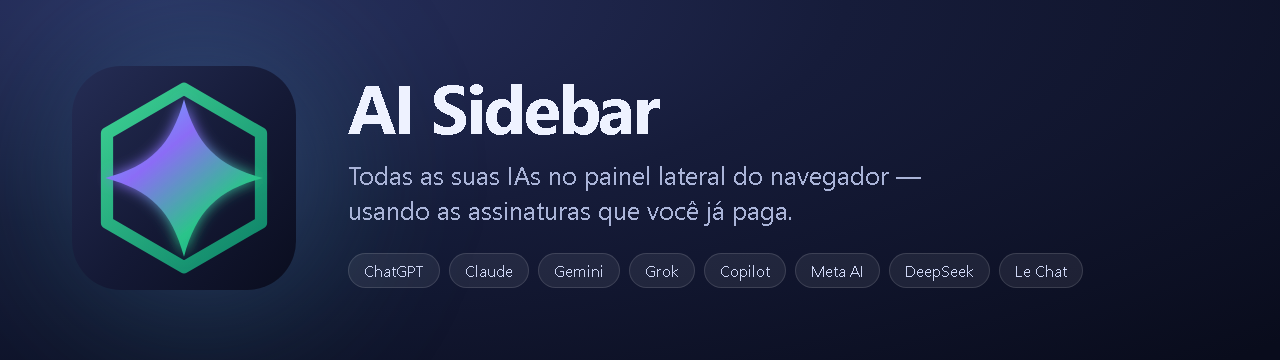
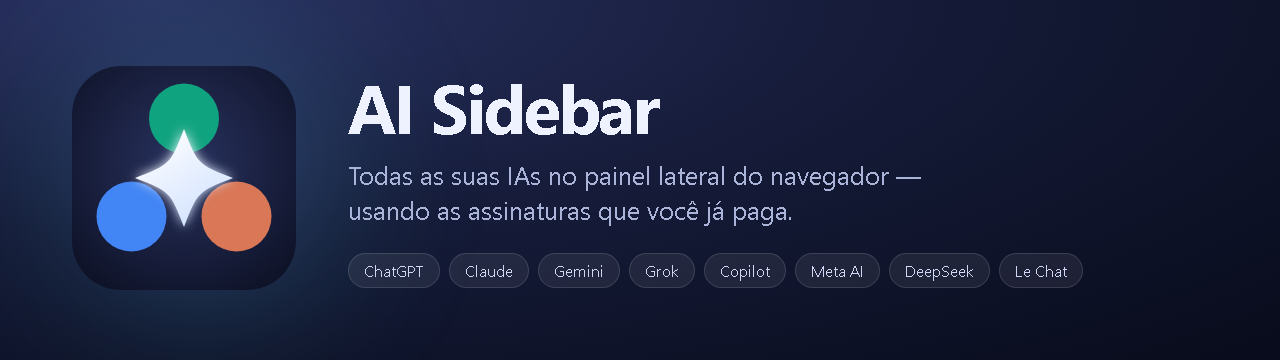
Ícone novo: três círculos de marca em torno de um núcleo
Substitui o hexágono anterior por uma composição que expressa a proposta do
projeto — vários modelos convergindo para um ponto só.

Três círculos grandes (verde, azul e laranja) em triângulo ao redor de uma
faísca branca central, sobre fundo radial escuro.

O conceito original usava seis círculos menores, que viravam uma mancha em
16 px: no canvas de 128 a escala cai 8x e um raio de 11 vira 1,4 px. Com três
círculos de raio 20 a forma sobrevive no tamanho real da barra.

Banner regenerado a partir do mesmo icon.svg para manter a identidade coerente.

Changed region(s): [[0.0312, 0.1833, 0.2188, 0.7639]]

diff --git a/docs/banner.html b/docs/banner.html
@@ -18,31 +18,24 @@ p{margin:16px 0 0;font-size:25px;line-height:1.4;color:#aab4d8;max-width:660px}
 <div class="wrap">
   <div class="glow"></div>
   <div class="icon">
-    <svg width="224" height="224" viewBox="0 0 128 128" xmlns="http://www.w3.org/2000/svg">
-      <defs>
-        <linearGradient id="bg" x1="0" y1="0" x2="1" y2="1">
-          <stop offset="0%" stop-color="#252d55"/><stop offset="55%" stop-color="#141935"/>
-          <stop offset="100%" stop-color="#0a0d1e"/>
-        </linearGradient>
-        <linearGradient id="spark" x1="0.1" y1="0" x2="0.9" y2="1">
-          <stop offset="0%" stop-color="#6cb2ff"/><stop offset="34%" stop-color="#8b6cf6"/>
-          <stop offset="72%" stop-color="#2bc48a"/><stop offset="100%" stop-color="#10a37f"/>
-        </linearGradient>
-        <linearGradient id="ring" x1="0.1" y1="0" x2="0.9" y2="1">
-          <stop offset="0%" stop-color="#3ddc97"/><stop offset="100%" stop-color="#0f8f6f"/>
-        </linearGradient>
-        <filter id="glowf" x="-30%" y="-30%" width="160%" height="160%">
-          <feGaussianBlur stdDeviation="4" result="b"/>
-          <feMerge><feMergeNode in="b"/><feMergeNode in="SourceGraphic"/></feMerge>
-        </filter>
-      </defs>
-      <rect width="128" height="128" rx="28" fill="url(#bg)"/>
-      <path d="M64 13 L108 38.5 L108 89.5 L64 115 L20 89.5 L20 38.5 Z" fill="none"
-            stroke="url(#ring)" stroke-width="7" stroke-linejoin="round" opacity="0.92"/>
-      <path d="M64 19 C71 45, 83 57, 109 64 C83 71, 71 83, 64 109
-               C57 83, 45 71, 19 64 C45 57, 57 45, 64 19 Z"
-            fill="url(#spark)" filter="url(#glowf)"/>
-    </svg>
+    <svg width="224" height="224" viewBox="0 0 128 128" xmlns="http://www.w3.org/2000/svg"><defs>
+  <radialGradient id="bgx" cx="0.5" cy="0.42" r="0.82">
+    <stop offset="0%" stop-color="#28325f"/><stop offset="100%" stop-color="#090c1c"/></radialGradient>
+  <linearGradient id="cox" x1="0.2" y1="0" x2="0.8" y2="1">
+    <stop offset="0%" stop-color="#ffffff"/><stop offset="100%" stop-color="#cfe0ff"/></linearGradient>
+  <filter id="glx" x="-60%" y="-60%" width="220%" height="220%">
+    <feGaussianBlur stdDeviation="3.4" result="b"/>
+    <feMerge><feMergeNode in="b"/><feMergeNode in="SourceGraphic"/></feMerge></filter></defs>
+<rect width="128" height="128" rx="28" fill="url(#bgx)"/>
+<circle cx="64" cy="30" r="20" fill="#10a37f"/>
+<circle cx="34" cy="86" r="20" fill="#4285f4"/>
+<circle cx="94" cy="86" r="20" fill="#d97757"/>
+<path d="M64 36 C71.84 56.16, 71.84 56.16, 92 64
+    C71.84 71.84, 71.84 71.84, 64 92
+    C56.16 71.84, 56.16 71.84, 36 64
+    C56.16 56.16, 56.16 56.16, 64 36 Z"
+    fill="url(#cox)" filter="url(#glx)"/>
+</svg>
   </div>
   <div class="txt">
     <h1>AI Sidebar</h1>
